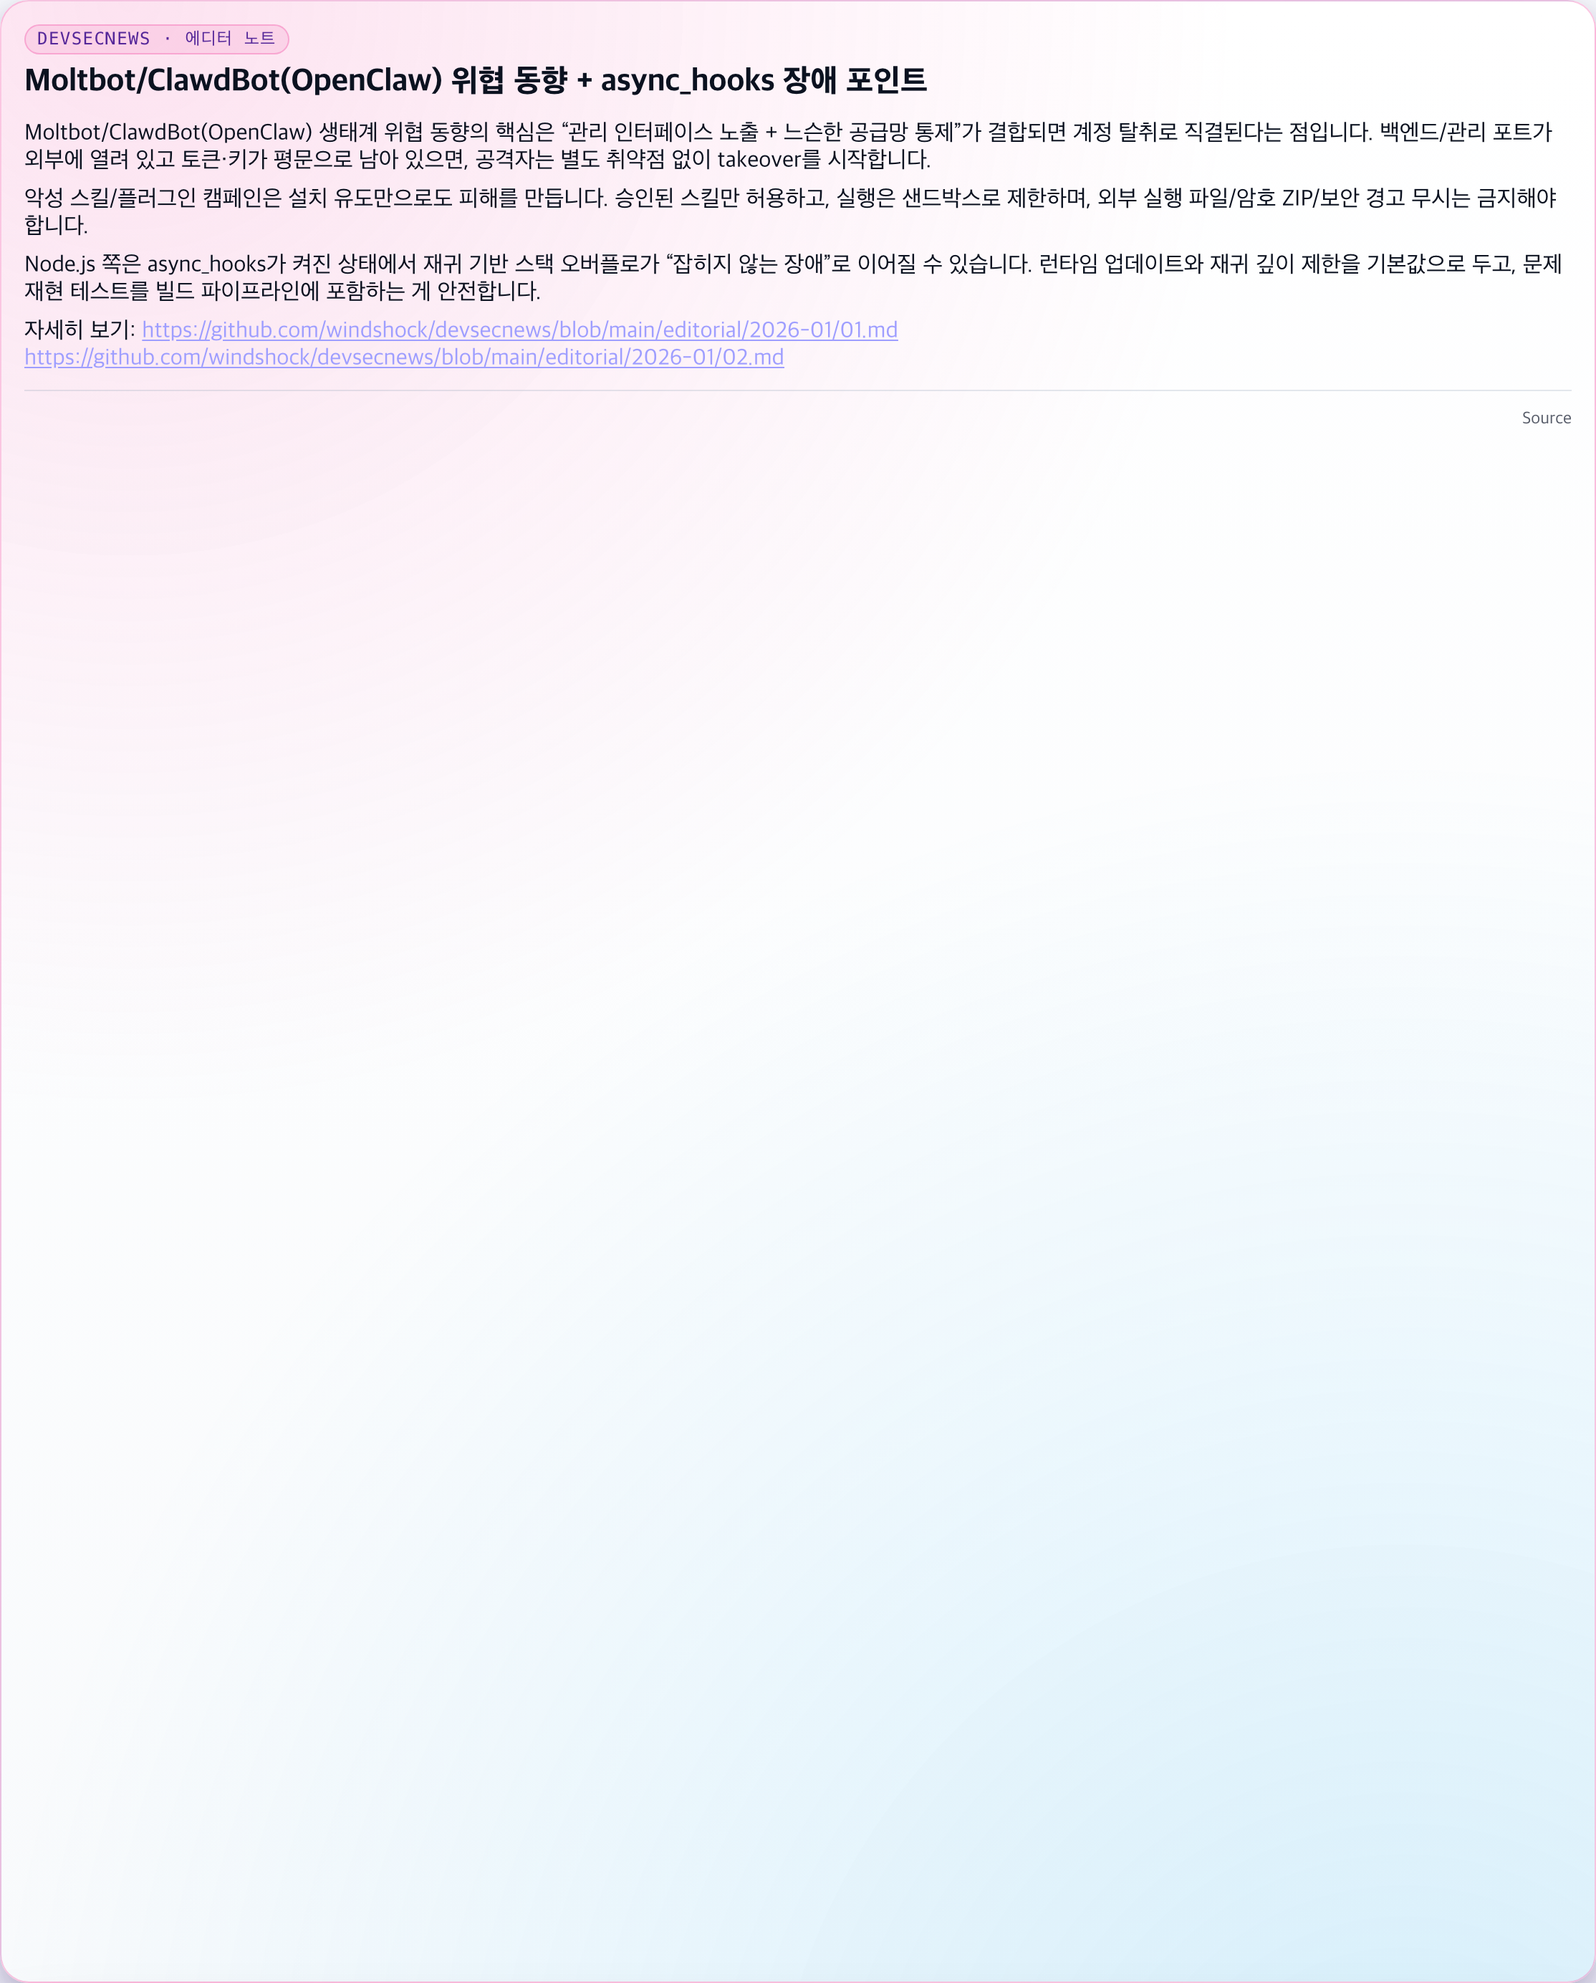
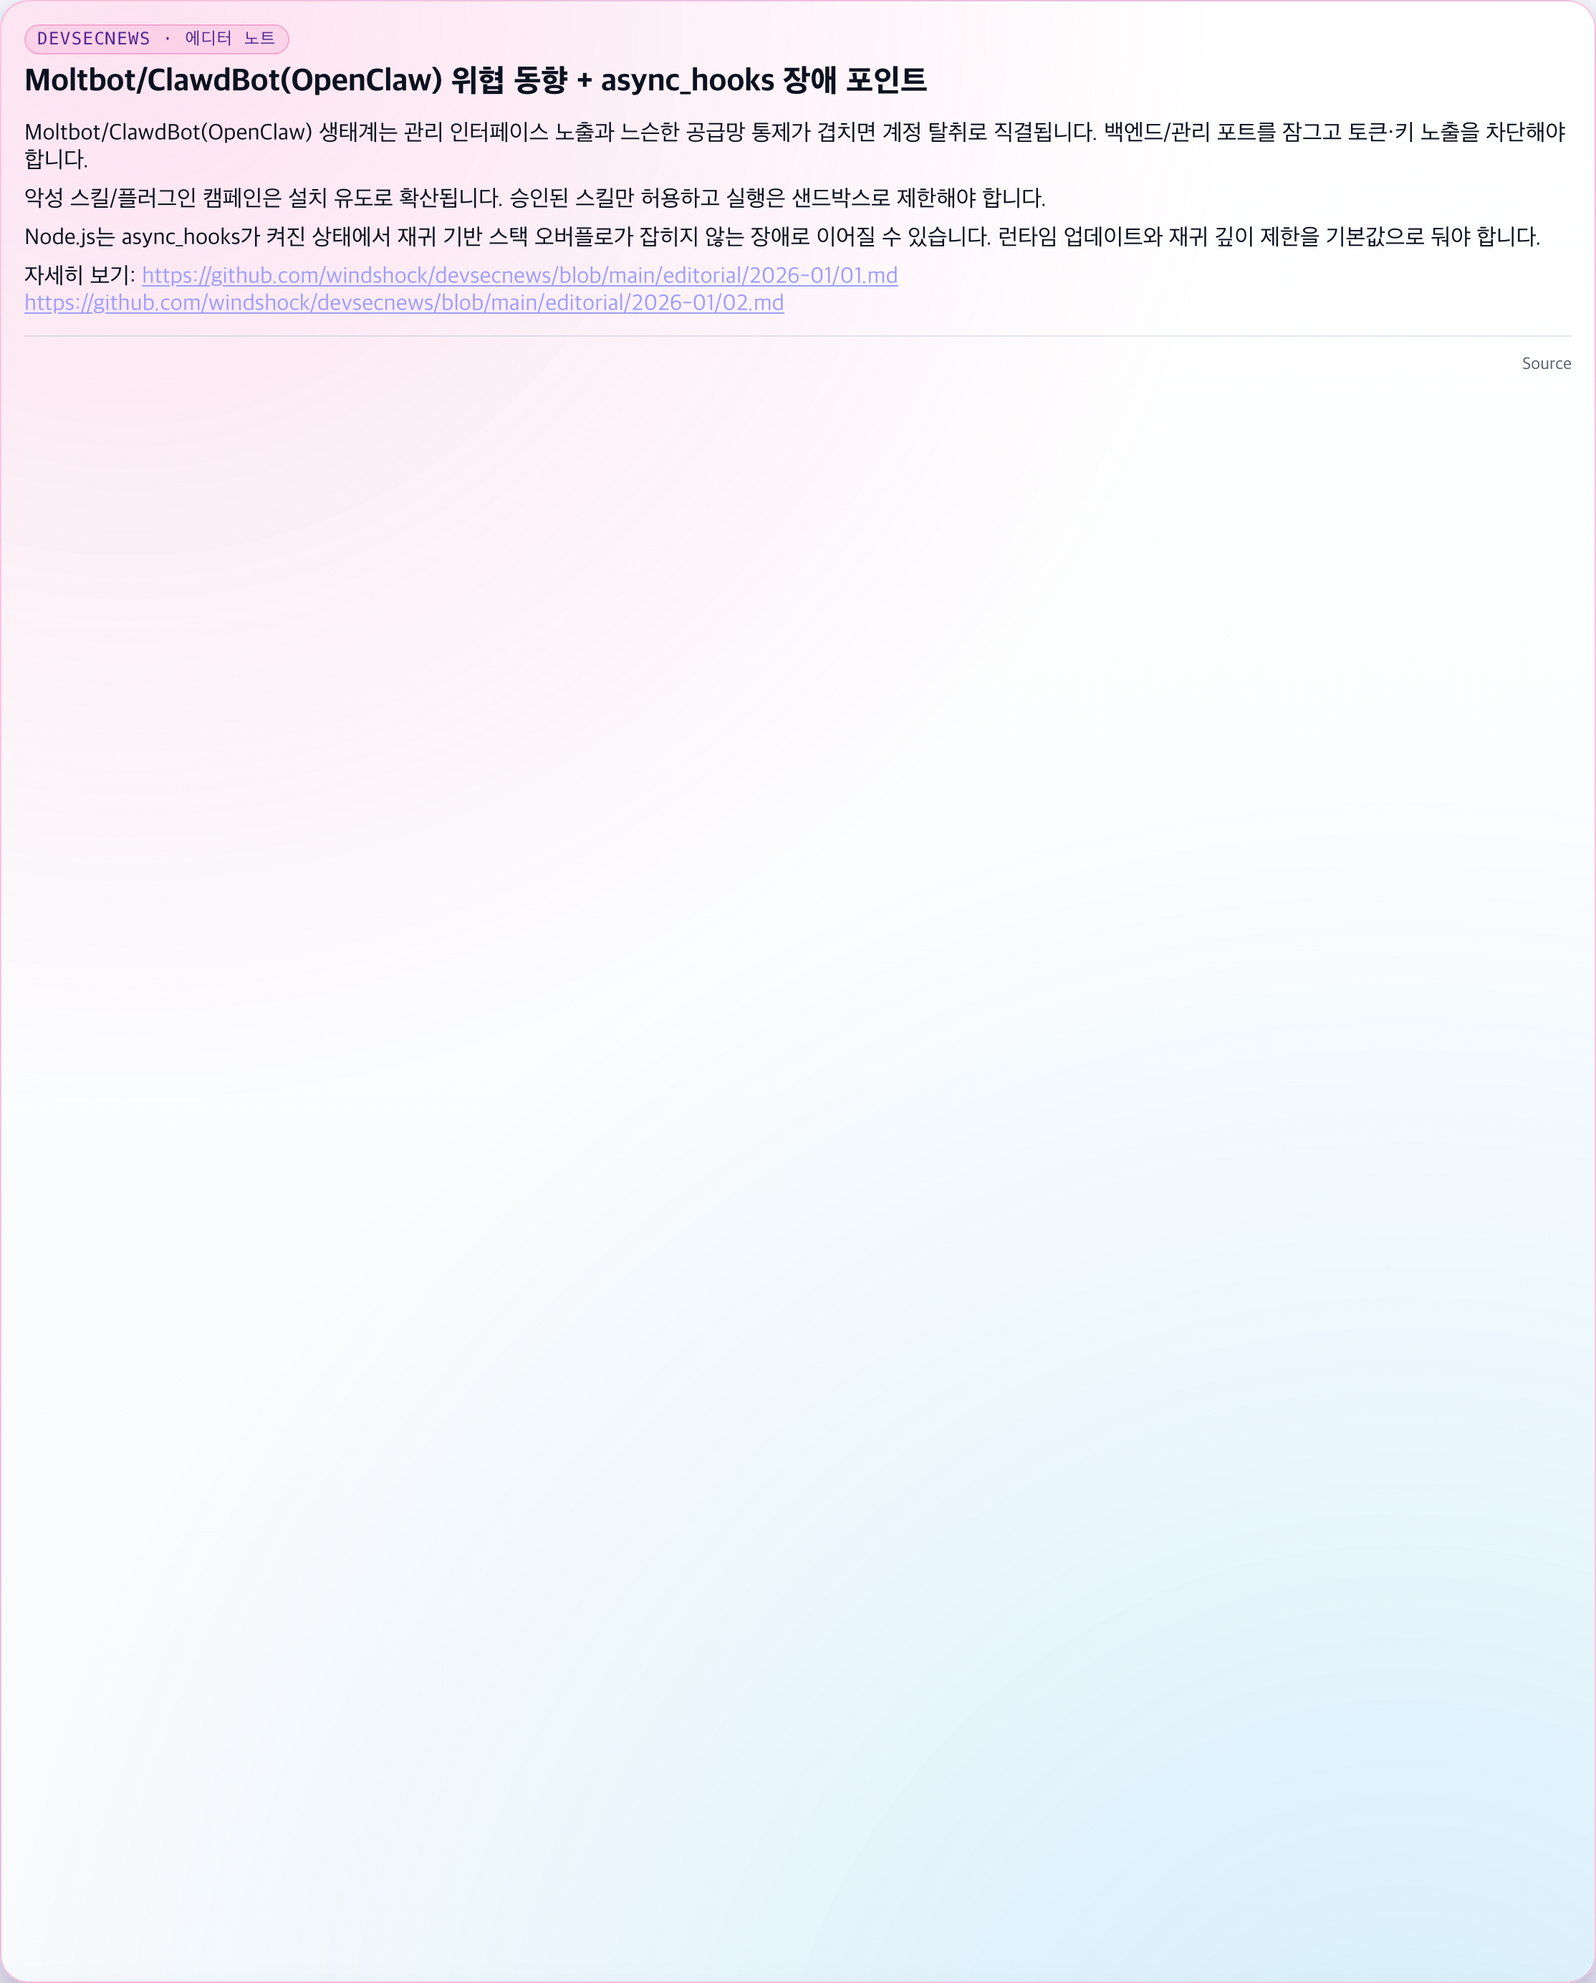
Trim editorial card copy for mobile

Changed region(s): [[0.0, 0.0621, 0.9601, 0.1864]]

diff --git a/dist/devsecnews-2026-01-node-java.html b/dist/devsecnews-2026-01-node-java.html
@@ -1944,7 +1944,7 @@ code.hljs {
 <li>EOL 개발 도구 확장(CVE-2026-22718)은 패치가 없습니다. 확장을 제거하고 워크스페이스 신뢰는 기본 거부로 둬야 합니다. [Source] <a href="https://spring.io/security/cve-2026-22718">https://spring.io/security/cve-2026-22718</a> (2026-01-13)</li>
 </ul>
 <!--CARD
-{"id":"editorial-1","kind":"editorial","header":"에디터 노트","title":"Moltbot/ClawdBot(OpenClaw) 위협 동향 + async_hooks 장애 포인트","bodyMd":"Moltbot/ClawdBot(OpenClaw) 생태계 위협 동향의 핵심은 “관리 인터페이스 노출 + 느슨한 공급망 통제”가 결합되면 계정 탈취로 직결된다는 점입니다. 백엔드/관리 포트가 외부에 열려 있고 토큰·키가 평문으로 남아 있으면, 공격자는 별도 취약점 없이 takeover를 시작합니다.\n\n악성 스킬/플러그인 캠페인은 설치 유도만으로도 피해를 만듭니다. 승인된 스킬만 허용하고, 실행은 샌드박스로 제한하며, 외부 실행 파일/암호 ZIP/보안 경고 무시는 금지해야 합니다.\n\nNode.js 쪽은 async_hooks가 켜진 상태에서 재귀 기반 스택 오버플로가 “잡히지 않는 장애”로 이어질 수 있습니다. 런타임 업데이트와 재귀 깊이 제한을 기본값으로 두고, 문제 재현 테스트를 빌드 파이프라인에 포함하는 게 안전합니다.\n\n자세히 보기: https://github.com/windshock/devsecnews/blob/main/editorial/2026-01/01.md\nhttps://github.com/windshock/devsecnews/blob/main/editorial/2026-01/02.md","source":"https://github.com/windshock/devsecnews/blob/main/editorial/2026-01/01.md"}
+{"id":"editorial-1","kind":"editorial","header":"에디터 노트","title":"Moltbot/ClawdBot(OpenClaw) 위협 동향 + async_hooks 장애 포인트","bodyMd":"Moltbot/ClawdBot(OpenClaw) 생태계는 관리 인터페이스 노출과 느슨한 공급망 통제가 겹치면 계정 탈취로 직결됩니다. 백엔드/관리 포트를 잠그고 토큰·키 노출을 차단해야 합니다.\n\n악성 스킬/플러그인 캠페인은 설치 유도로 확산됩니다. 승인된 스킬만 허용하고 실행은 샌드박스로 제한해야 합니다.\n\nNode.js는 async_hooks가 켜진 상태에서 재귀 기반 스택 오버플로가 잡히지 않는 장애로 이어질 수 있습니다. 런타임 업데이트와 재귀 깊이 제한을 기본값으로 둬야 합니다.\n\n자세히 보기: https://github.com/windshock/devsecnews/blob/main/editorial/2026-01/01.md\nhttps://github.com/windshock/devsecnews/blob/main/editorial/2026-01/02.md","source":"https://github.com/windshock/devsecnews/blob/main/editorial/2026-01/01.md"}
 -->
 <!--CARD
 {"id":"summary-1","kind":"summary","header":"요약","title":"Node.js 보안 릴리스 업데이트","bodyMd":"20/22/24/25 라인 보안 릴리스가 나왔습니다. 권한 모델과 vm 타임아웃 이슈가 핵심입니다.","whyMd":"런타임 취약점은 앱 코드 경계 밖에서 바로 노출됩니다.","impactMd":"메모리 노출·권한 우회로 이어질 수 있습니다.","actionMd":"런타임을 보안 릴리스 버전으로 업데이트합니다.","source":"https://nodejs.org/es/blog/vulnerability/december-2025-security-releases "}

diff --git a/docs/devsecnews-2026-01-node-java.html b/docs/devsecnews-2026-01-node-java.html
@@ -1944,7 +1944,7 @@ code.hljs {
 <li>EOL 개발 도구 확장(CVE-2026-22718)은 패치가 없습니다. 확장을 제거하고 워크스페이스 신뢰는 기본 거부로 둬야 합니다. [Source] <a href="https://spring.io/security/cve-2026-22718">https://spring.io/security/cve-2026-22718</a> (2026-01-13)</li>
 </ul>
 <!--CARD
-{"id":"editorial-1","kind":"editorial","header":"에디터 노트","title":"Moltbot/ClawdBot(OpenClaw) 위협 동향 + async_hooks 장애 포인트","bodyMd":"Moltbot/ClawdBot(OpenClaw) 생태계 위협 동향의 핵심은 “관리 인터페이스 노출 + 느슨한 공급망 통제”가 결합되면 계정 탈취로 직결된다는 점입니다. 백엔드/관리 포트가 외부에 열려 있고 토큰·키가 평문으로 남아 있으면, 공격자는 별도 취약점 없이 takeover를 시작합니다.\n\n악성 스킬/플러그인 캠페인은 설치 유도만으로도 피해를 만듭니다. 승인된 스킬만 허용하고, 실행은 샌드박스로 제한하며, 외부 실행 파일/암호 ZIP/보안 경고 무시는 금지해야 합니다.\n\nNode.js 쪽은 async_hooks가 켜진 상태에서 재귀 기반 스택 오버플로가 “잡히지 않는 장애”로 이어질 수 있습니다. 런타임 업데이트와 재귀 깊이 제한을 기본값으로 두고, 문제 재현 테스트를 빌드 파이프라인에 포함하는 게 안전합니다.\n\n자세히 보기: https://github.com/windshock/devsecnews/blob/main/editorial/2026-01/01.md\nhttps://github.com/windshock/devsecnews/blob/main/editorial/2026-01/02.md","source":"https://github.com/windshock/devsecnews/blob/main/editorial/2026-01/01.md"}
+{"id":"editorial-1","kind":"editorial","header":"에디터 노트","title":"Moltbot/ClawdBot(OpenClaw) 위협 동향 + async_hooks 장애 포인트","bodyMd":"Moltbot/ClawdBot(OpenClaw) 생태계는 관리 인터페이스 노출과 느슨한 공급망 통제가 겹치면 계정 탈취로 직결됩니다. 백엔드/관리 포트를 잠그고 토큰·키 노출을 차단해야 합니다.\n\n악성 스킬/플러그인 캠페인은 설치 유도로 확산됩니다. 승인된 스킬만 허용하고 실행은 샌드박스로 제한해야 합니다.\n\nNode.js는 async_hooks가 켜진 상태에서 재귀 기반 스택 오버플로가 잡히지 않는 장애로 이어질 수 있습니다. 런타임 업데이트와 재귀 깊이 제한을 기본값으로 둬야 합니다.\n\n자세히 보기: https://github.com/windshock/devsecnews/blob/main/editorial/2026-01/01.md\nhttps://github.com/windshock/devsecnews/blob/main/editorial/2026-01/02.md","source":"https://github.com/windshock/devsecnews/blob/main/editorial/2026-01/01.md"}
 -->
 <!--CARD
 {"id":"summary-1","kind":"summary","header":"요약","title":"Node.js 보안 릴리스 업데이트","bodyMd":"20/22/24/25 라인 보안 릴리스가 나왔습니다. 권한 모델과 vm 타임아웃 이슈가 핵심입니다.","whyMd":"런타임 취약점은 앱 코드 경계 밖에서 바로 노출됩니다.","impactMd":"메모리 노출·권한 우회로 이어질 수 있습니다.","actionMd":"런타임을 보안 릴리스 버전으로 업데이트합니다.","source":"https://nodejs.org/es/blog/vulnerability/december-2025-security-releases "}

diff --git a/cards/devsecnews-2026-01-node-java/cards.html b/cards/devsecnews-2026-01-node-java/cards.html
@@ -299,9 +299,9 @@
     <h2 id="card-1-title" class="card-title">Moltbot/ClawdBot(OpenClaw) 위협 동향 + async_hooks 장애 포인트</h2>
   </header>
   <div class="card-body">
-    <p>Moltbot/ClawdBot(OpenClaw) 생태계 위협 동향의 핵심은 “관리 인터페이스 노출 + 느슨한 공급망 통제”가 결합되면 계정 탈취로 직결된다는 점입니다. 백엔드/관리 포트가 외부에 열려 있고 토큰·키가 평문으로 남아 있으면, 공격자는 별도 취약점 없이 takeover를 시작합니다.</p>
-<p>악성 스킬/플러그인 캠페인은 설치 유도만으로도 피해를 만듭니다. 승인된 스킬만 허용하고, 실행은 샌드박스로 제한하며, 외부 실행 파일/암호 ZIP/보안 경고 무시는 금지해야 합니다.</p>
-<p>Node.js 쪽은 async_hooks가 켜진 상태에서 재귀 기반 스택 오버플로가 “잡히지 않는 장애”로 이어질 수 있습니다. 런타임 업데이트와 재귀 깊이 제한을 기본값으로 두고, 문제 재현 테스트를 빌드 파이프라인에 포함하는 게 안전합니다.</p>
+    <p>Moltbot/ClawdBot(OpenClaw) 생태계는 관리 인터페이스 노출과 느슨한 공급망 통제가 겹치면 계정 탈취로 직결됩니다. 백엔드/관리 포트를 잠그고 토큰·키 노출을 차단해야 합니다.</p>
+<p>악성 스킬/플러그인 캠페인은 설치 유도로 확산됩니다. 승인된 스킬만 허용하고 실행은 샌드박스로 제한해야 합니다.</p>
+<p>Node.js는 async_hooks가 켜진 상태에서 재귀 기반 스택 오버플로가 잡히지 않는 장애로 이어질 수 있습니다. 런타임 업데이트와 재귀 깊이 제한을 기본값으로 둬야 합니다.</p>
 <p>자세히 보기: <a href="https://github.com/windshock/devsecnews/blob/main/editorial/2026-01/01.md">https://github.com/windshock/devsecnews/blob/main/editorial/2026-01/01.md</a>
 <a href="https://github.com/windshock/devsecnews/blob/main/editorial/2026-01/02.md">https://github.com/windshock/devsecnews/blob/main/editorial/2026-01/02.md</a></p>
 

diff --git a/docs/cards/devsecnews-2026-01-node-java/cards.html b/docs/cards/devsecnews-2026-01-node-java/cards.html
@@ -299,9 +299,9 @@
     <h2 id="card-1-title" class="card-title">Moltbot/ClawdBot(OpenClaw) 위협 동향 + async_hooks 장애 포인트</h2>
   </header>
   <div class="card-body">
-    <p>Moltbot/ClawdBot(OpenClaw) 생태계 위협 동향의 핵심은 “관리 인터페이스 노출 + 느슨한 공급망 통제”가 결합되면 계정 탈취로 직결된다는 점입니다. 백엔드/관리 포트가 외부에 열려 있고 토큰·키가 평문으로 남아 있으면, 공격자는 별도 취약점 없이 takeover를 시작합니다.</p>
-<p>악성 스킬/플러그인 캠페인은 설치 유도만으로도 피해를 만듭니다. 승인된 스킬만 허용하고, 실행은 샌드박스로 제한하며, 외부 실행 파일/암호 ZIP/보안 경고 무시는 금지해야 합니다.</p>
-<p>Node.js 쪽은 async_hooks가 켜진 상태에서 재귀 기반 스택 오버플로가 “잡히지 않는 장애”로 이어질 수 있습니다. 런타임 업데이트와 재귀 깊이 제한을 기본값으로 두고, 문제 재현 테스트를 빌드 파이프라인에 포함하는 게 안전합니다.</p>
+    <p>Moltbot/ClawdBot(OpenClaw) 생태계는 관리 인터페이스 노출과 느슨한 공급망 통제가 겹치면 계정 탈취로 직결됩니다. 백엔드/관리 포트를 잠그고 토큰·키 노출을 차단해야 합니다.</p>
+<p>악성 스킬/플러그인 캠페인은 설치 유도로 확산됩니다. 승인된 스킬만 허용하고 실행은 샌드박스로 제한해야 합니다.</p>
+<p>Node.js는 async_hooks가 켜진 상태에서 재귀 기반 스택 오버플로가 잡히지 않는 장애로 이어질 수 있습니다. 런타임 업데이트와 재귀 깊이 제한을 기본값으로 둬야 합니다.</p>
 <p>자세히 보기: <a href="https://github.com/windshock/devsecnews/blob/main/editorial/2026-01/01.md">https://github.com/windshock/devsecnews/blob/main/editorial/2026-01/01.md</a>
 <a href="https://github.com/windshock/devsecnews/blob/main/editorial/2026-01/02.md">https://github.com/windshock/devsecnews/blob/main/editorial/2026-01/02.md</a></p>
 

diff --git a/content/devsecnews-2026-01-node-java.md b/content/devsecnews-2026-01-node-java.md
@@ -21,7 +21,7 @@ https://github.com/windshock/devsecnews/blob/main/editorial/2026-01/02.md
 - EOL 개발 도구 확장(CVE-2026-22718)은 패치가 없습니다. 확장을 제거하고 워크스페이스 신뢰는 기본 거부로 둬야 합니다. [Source] https://spring.io/security/cve-2026-22718 (2026-01-13)
 
 <!--CARD
-{"id":"editorial-1","kind":"editorial","header":"에디터 노트","title":"Moltbot/ClawdBot(OpenClaw) 위협 동향 + async_hooks 장애 포인트","bodyMd":"Moltbot/ClawdBot(OpenClaw) 생태계 위협 동향의 핵심은 “관리 인터페이스 노출 + 느슨한 공급망 통제”가 결합되면 계정 탈취로 직결된다는 점입니다. 백엔드/관리 포트가 외부에 열려 있고 토큰·키가 평문으로 남아 있으면, 공격자는 별도 취약점 없이 takeover를 시작합니다.\n\n악성 스킬/플러그인 캠페인은 설치 유도만으로도 피해를 만듭니다. 승인된 스킬만 허용하고, 실행은 샌드박스로 제한하며, 외부 실행 파일/암호 ZIP/보안 경고 무시는 금지해야 합니다.\n\nNode.js 쪽은 async_hooks가 켜진 상태에서 재귀 기반 스택 오버플로가 “잡히지 않는 장애”로 이어질 수 있습니다. 런타임 업데이트와 재귀 깊이 제한을 기본값으로 두고, 문제 재현 테스트를 빌드 파이프라인에 포함하는 게 안전합니다.\n\n자세히 보기: https://github.com/windshock/devsecnews/blob/main/editorial/2026-01/01.md\nhttps://github.com/windshock/devsecnews/blob/main/editorial/2026-01/02.md","source":"https://github.com/windshock/devsecnews/blob/main/editorial/2026-01/01.md"}
+{"id":"editorial-1","kind":"editorial","header":"에디터 노트","title":"Moltbot/ClawdBot(OpenClaw) 위협 동향 + async_hooks 장애 포인트","bodyMd":"Moltbot/ClawdBot(OpenClaw) 생태계는 관리 인터페이스 노출과 느슨한 공급망 통제가 겹치면 계정 탈취로 직결됩니다. 백엔드/관리 포트를 잠그고 토큰·키 노출을 차단해야 합니다.\n\n악성 스킬/플러그인 캠페인은 설치 유도로 확산됩니다. 승인된 스킬만 허용하고 실행은 샌드박스로 제한해야 합니다.\n\nNode.js는 async_hooks가 켜진 상태에서 재귀 기반 스택 오버플로가 잡히지 않는 장애로 이어질 수 있습니다. 런타임 업데이트와 재귀 깊이 제한을 기본값으로 둬야 합니다.\n\n자세히 보기: https://github.com/windshock/devsecnews/blob/main/editorial/2026-01/01.md\nhttps://github.com/windshock/devsecnews/blob/main/editorial/2026-01/02.md","source":"https://github.com/windshock/devsecnews/blob/main/editorial/2026-01/01.md"}
 -->
 <!--CARD
 {"id":"summary-1","kind":"summary","header":"요약","title":"Node.js 보안 릴리스 업데이트","bodyMd":"20/22/24/25 라인 보안 릴리스가 나왔습니다. 권한 모델과 vm 타임아웃 이슈가 핵심입니다.","whyMd":"런타임 취약점은 앱 코드 경계 밖에서 바로 노출됩니다.","impactMd":"메모리 노출·권한 우회로 이어질 수 있습니다.","actionMd":"런타임을 보안 릴리스 버전으로 업데이트합니다.","source":"https://nodejs.org/es/blog/vulnerability/december-2025-security-releases "}
